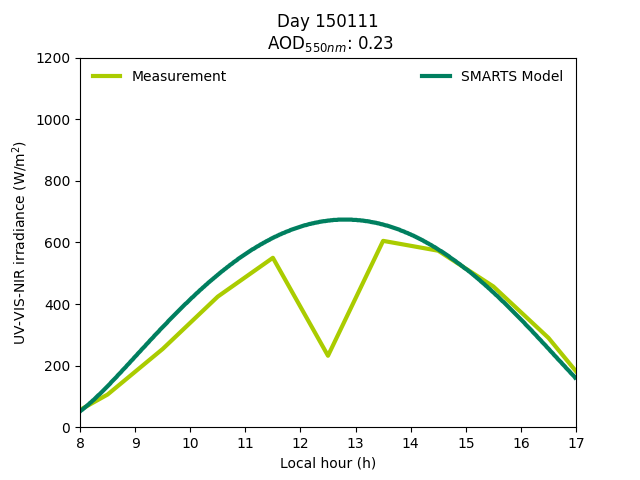
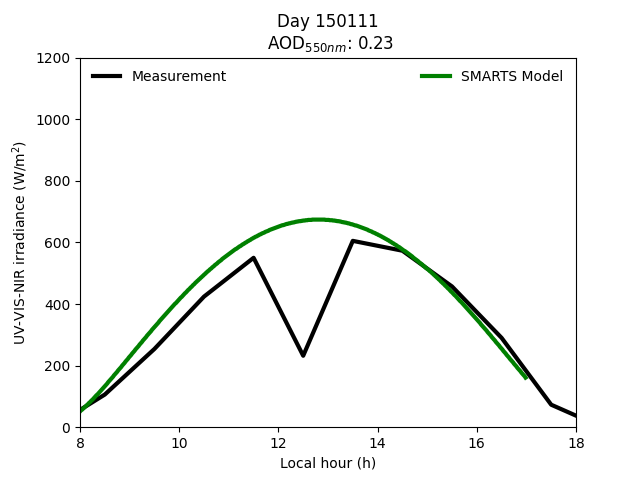
[CHANGE] color of graphics

diff --git a/Scripts/MODIS_Histogram.py b/Scripts/MODIS_Histogram.py
@@ -13,17 +13,19 @@ def hist(data,divs):
     data_hist=data_hist/n_data*100
     return data_hist
 #<---------------------------------Funcion que grafica las barras------------------->
-def hist_plot(data1,data2,path):
-    fig, ax = plt.subplots(figsize=(9,7))
+def hist_plot(data1,data2,path,title):
+    fig, ax = plt.subplots()
+    ax.set_ylabel("Frequency (%)")
     x=np.arange(np.size(data1))
     width =0.5 
-    plt.ylim(0,100)
+    ax.plot(x,data2,width,c="green",ls="--")
+    ax.set_ylim(0,70)
+    rects1=ax.bar(x,data1,width,label='SMARTS',facecolor="purple",alpha=0.5)
+    autolabel(ax,rects1)    
     plt.xticks(x,div)
-    rects1=ax.bar(x-width/2,data1,width,label='SMARTS',facecolor="purple")
-    rects2=ax.bar(x+width/2,data2,width,label='MODIS',facecolor="green")
+    plt.title(title+" 2015-2019")
+    ax.scatter(x,data2,c="green",label="MODIS")
     plt.legend(frameon=False,ncol=2,mode='expand')
-    autolabel(ax,rects1)
-    autolabel(ax,rects2)
     plt.savefig(path+'Graphics/AOD_hist.png')
 #<------------------------Funcion que grafica los valores de cada barra------------->
 def autolabel(ax,rects):
@@ -37,18 +39,19 @@ def autolabel(ax,rects):
 #<-------------------------------Direccion de los archivos------------------------>
 dir="../Archivos/"
 #<----------Numero de divisiones, cota inferior y superior del conteo-------------->
-n_bins=5;bin_i=0.2;bin_f=1.2
+n_bins=10;bin_i=0.1;bin_f=1.1
 #<---------------------------Numero de divisiones-------------------------->
 n_div=(bin_f-bin_i)/n_bins
 div=np.round(np.arange(bin_i,bin_f,n_div),2)
 #<--------------------------Estaciones por analizar---------------------------->
 stations=['noroeste','noreste']
+stations_english=["NW","NE"]
 #<---------------------------Direcciones y nombres de los archivos de AOD-SMARTS----------------->
 dir_stations='../Stations/';arc_data_SMARTS='DataAOD_moderate.txt'
 data_MODIS=np.loadtxt(dir+"MODIS-AOD.csv",delimiter=",",skiprows=1,usecols=2)
 MODIS_hist=hist(data_MODIS,div)
-for station in stations:
+for station,station_english in zip(stations,stations_english):
     folder=dir_stations+station+'/'
     data_SMARTS=np.loadtxt(folder+arc_data_SMARTS,usecols=5)
     SMARTS_hist=hist(data_SMARTS,div)
-    hist_plot(SMARTS_hist,MODIS_hist,folder)
+    hist_plot(SMARTS_hist,MODIS_hist,folder,station_english)

diff --git a/Scripts/DaysGraphics.py b/Scripts/DaysGraphics.py
@@ -19,8 +19,8 @@ for station in stations:
     for date,aod in zip(dates,aods):
         med=np.loadtxt(carp+"/Mediciones/"+date+".txt")
         mod=np.loadtxt(carp+"/ResultsSMARTS/"+date+".txt")
-        plt.plot(med[:,0],med[:,1],label="Measurement",lw=3,color="#aacc00")
-        plt.plot(mod[:,0],mod[:,1],label="SMARTS Model",lw=3,color="#007f5f")
+        plt.plot(med[:,0],med[:,1],label="Measurement",lw=3,color="black")
+        plt.plot(mod[:,0],mod[:,1],label="SMARTS Model",lw=3,color="green")
         plt.ylabel("UV-VIS-NIR irradiance (W/m$^2$)")
         plt.xlabel("Local hour (h)")
         plt.xlim(8,17)
